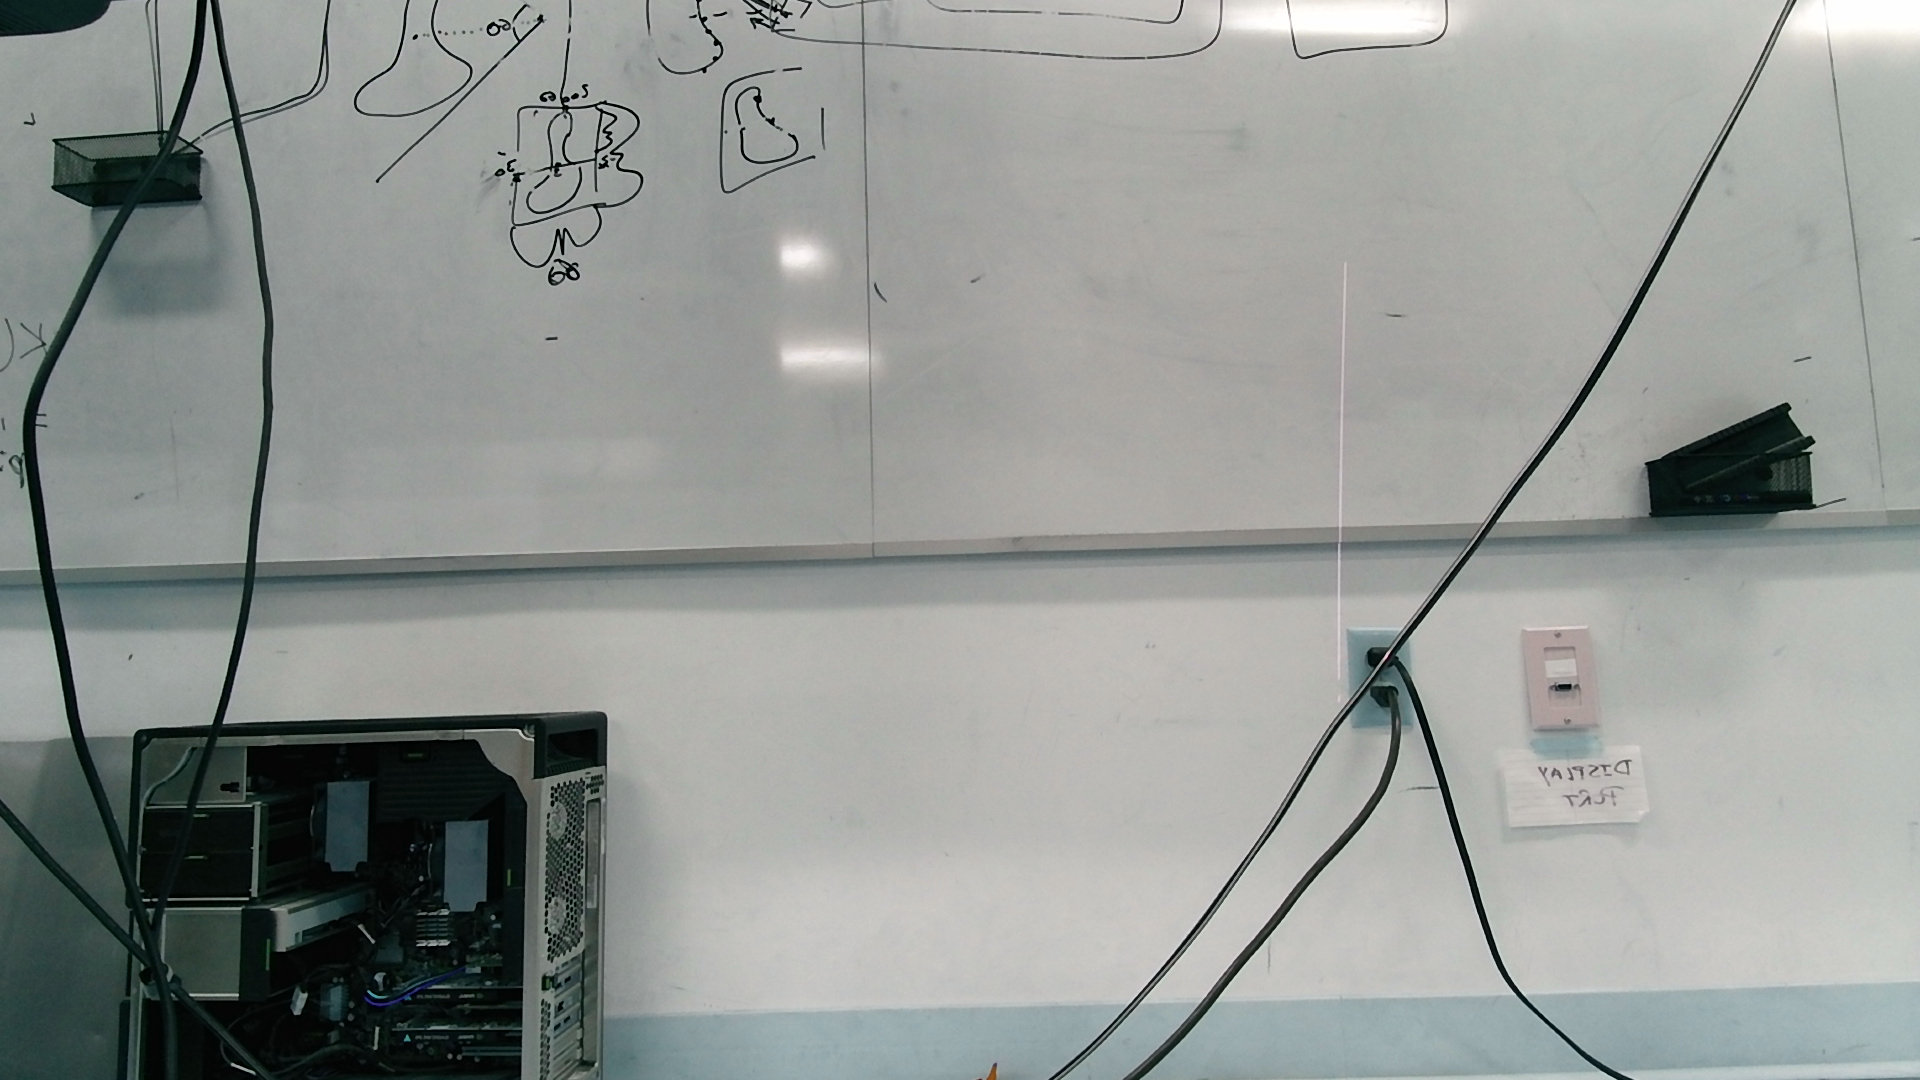
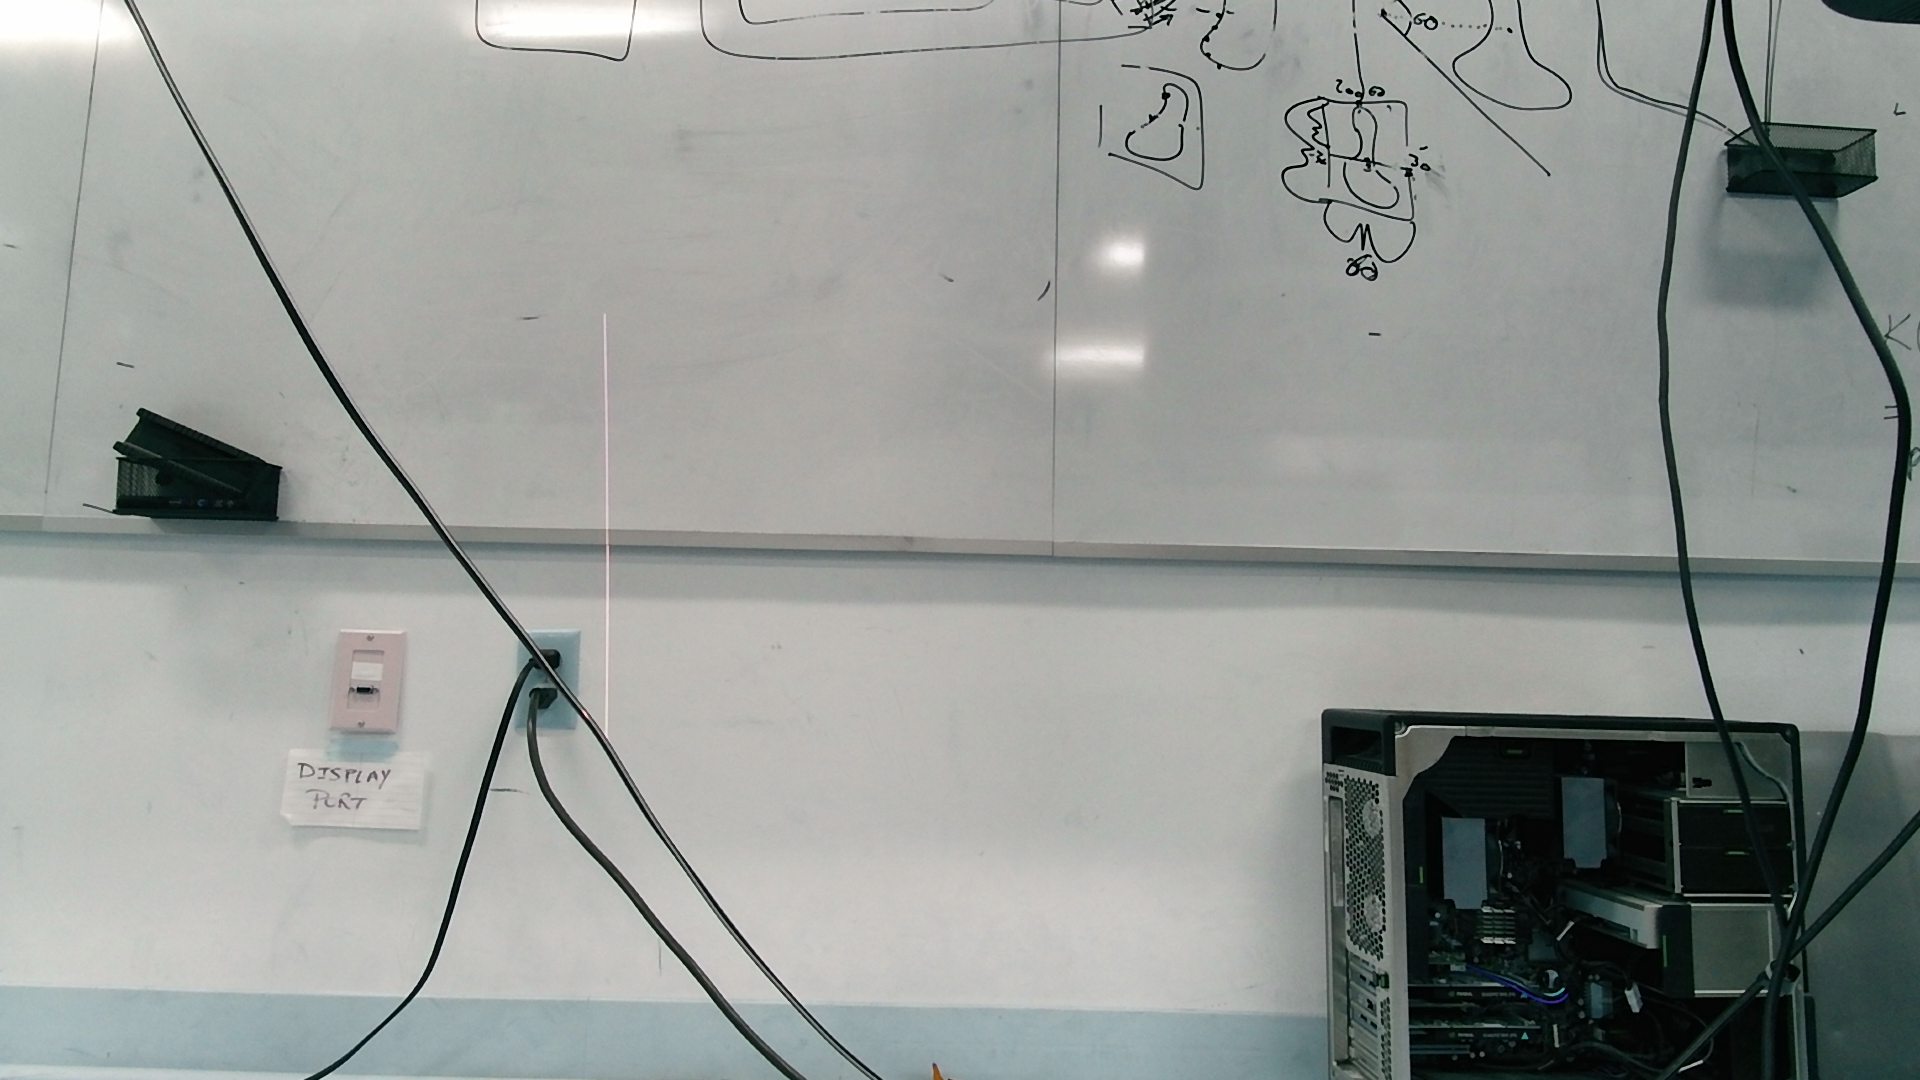
brighter flipped callibration images

diff --git a/kinect.py b/kinect.py
@@ -8,11 +8,11 @@ def get_color_frame():
         for type_, frame1 in device:
             if type_ is FrameType.Color:
                 break
-    return frame1.to_array().copy()
+    return frame1.to_array().copy()[:, ::-1]
 
 def get_depth_frame():
     with device.running():
         for type_, frame1 in device:
             if type_ is FrameType.Depth:
                 break
-    return frame1.to_array().copy()
+    return frame1.to_array().copy()[:, ::-1]
